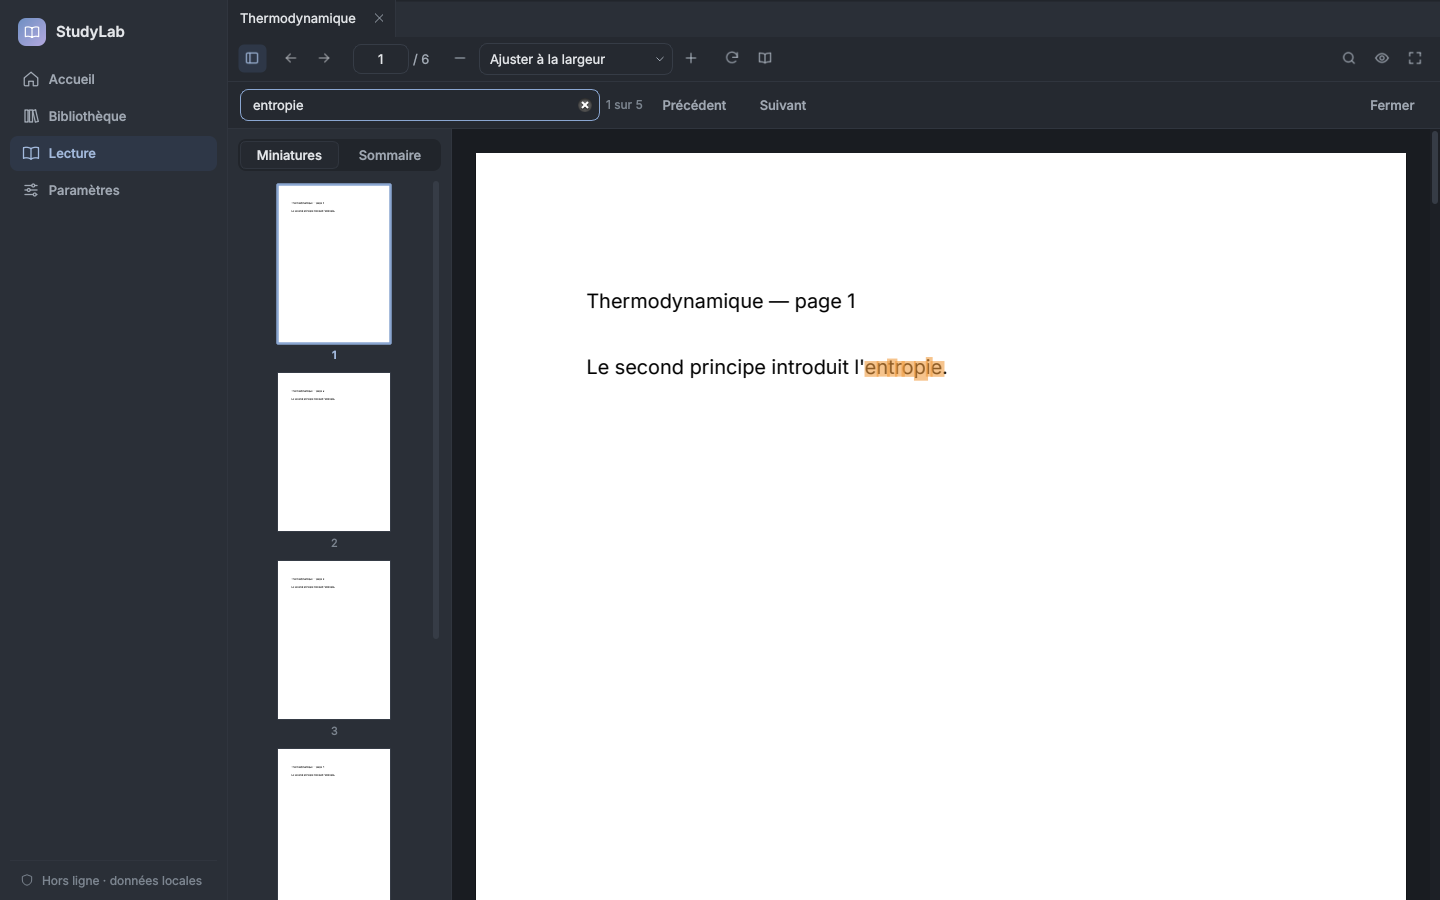
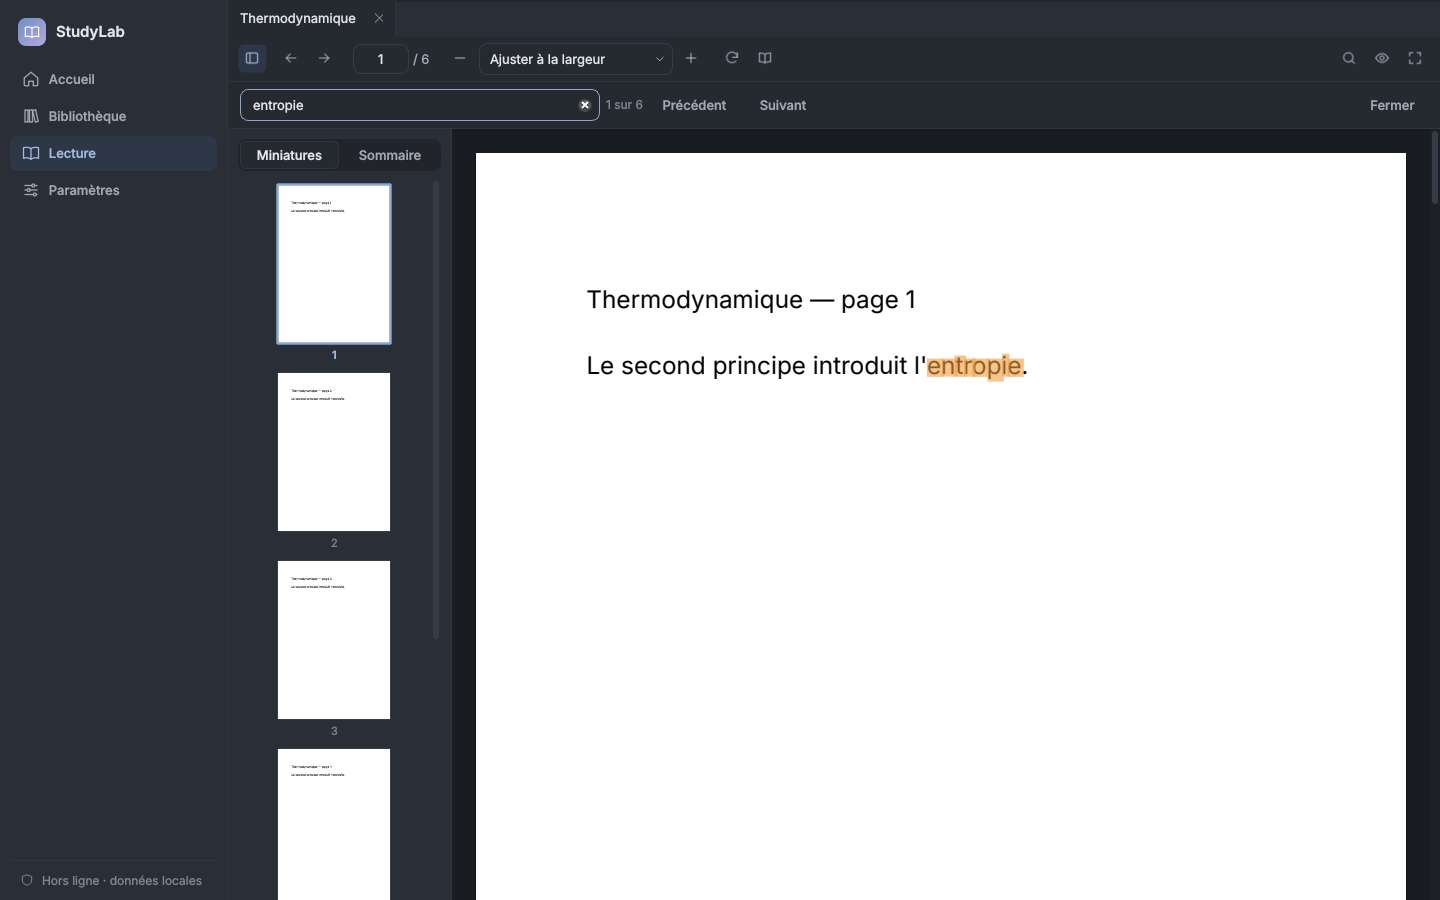
Tests : police embarquée pour les PDF générés
Sous Windows, la plateforme « offscreen » ne trouve aucune police : les PDF de test
étaient écrits sans glyphes, d'où l'échec de la sélection et de la recherche en CI.
Les fixtures chargent désormais Inter depuis les sources.

Claude-Session: https://claude.ai/code/session_01QsEUGFFJrN4aErr2cgiLYd

Changed region(s): [[0.4062, 0.3733, 0.7188, 0.4356], [0.4062, 0.3111, 0.625, 0.3422]]

diff --git a/tests/support/Fixtures.cpp b/tests/support/Fixtures.cpp
@@ -3,12 +3,32 @@
 #include <private/qzipwriter_p.h>
 
 #include <QBuffer>
+#include <QFont>
+#include <QFontDatabase>
 #include <QImage>
 #include <QPageSize>
 #include <QPainter>
 #include <QPdfWriter>
 
 namespace studylab::test {
+
+namespace {
+
+/// Police du texte des PDF de test, chargée depuis les sources : sans elle, un PDF écrit sous
+/// Windows en mode « offscreen » ne contient aucun glyphe (ni texte sélectionnable, ni recherche).
+QFont fixtureFont()
+{
+    static const QString family = [] {
+        const int id = QFontDatabase::addApplicationFont(QStringLiteral(STUDYLAB_TEST_FONT));
+        const QStringList families = id >= 0 ? QFontDatabase::applicationFontFamilies(id) : QStringList();
+        return families.isEmpty() ? QString() : families.first();
+    }();
+    QFont font(family.isEmpty() ? QStringLiteral("Sans Serif") : family);
+    font.setPointSizeF(11);
+    return font;
+}
+
+}  // namespace
 
 bool writePdf(const QString& path, const PdfSpec& spec)
 {
@@ -20,6 +40,7 @@ bool writePdf(const QString& path, const PdfSpec& spec)
     QPainter p;
     if (!p.begin(&w))
         return false;
+    p.setFont(fixtureFont());
     for (int i = 0; i < spec.pages; ++i) {
         if (i > 0)
             w.newPage();
